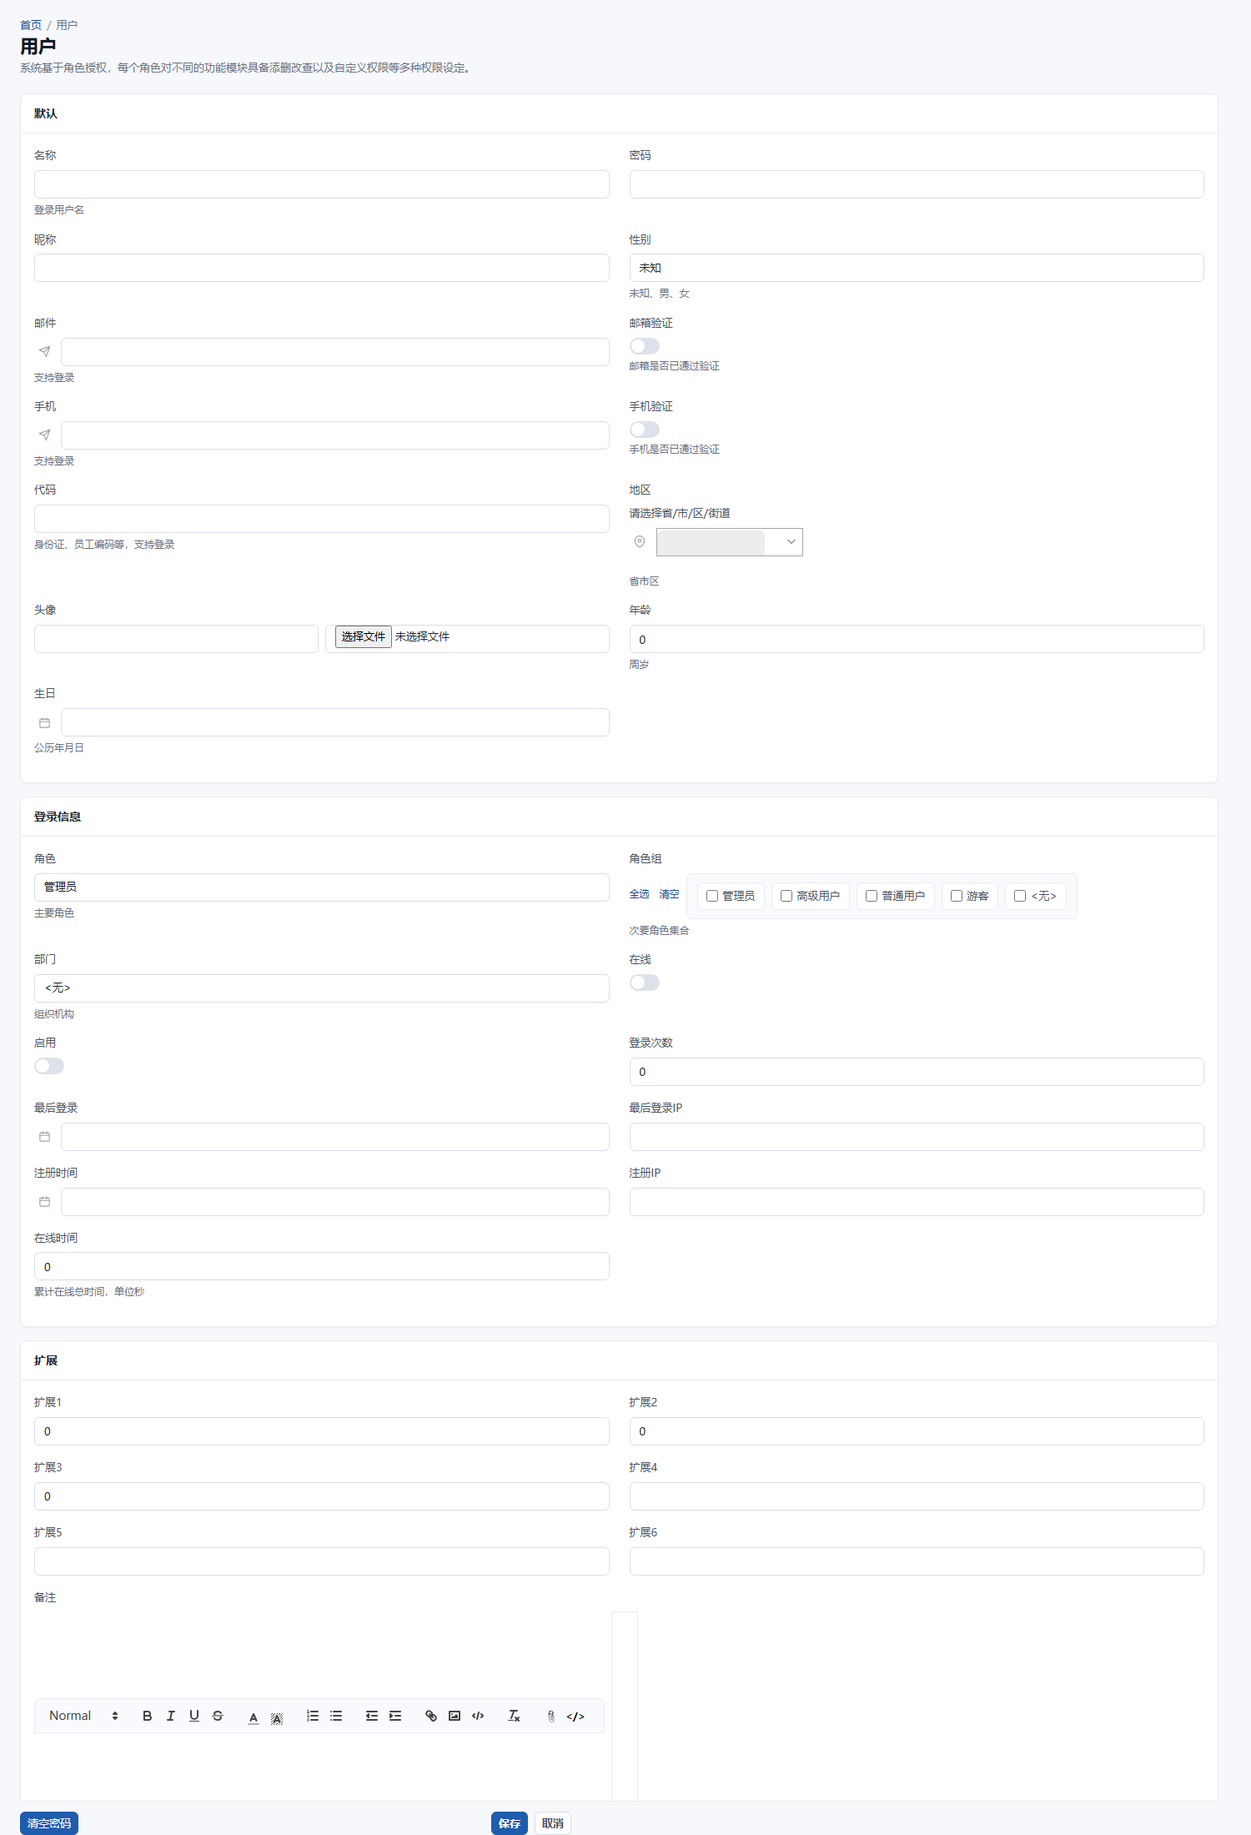
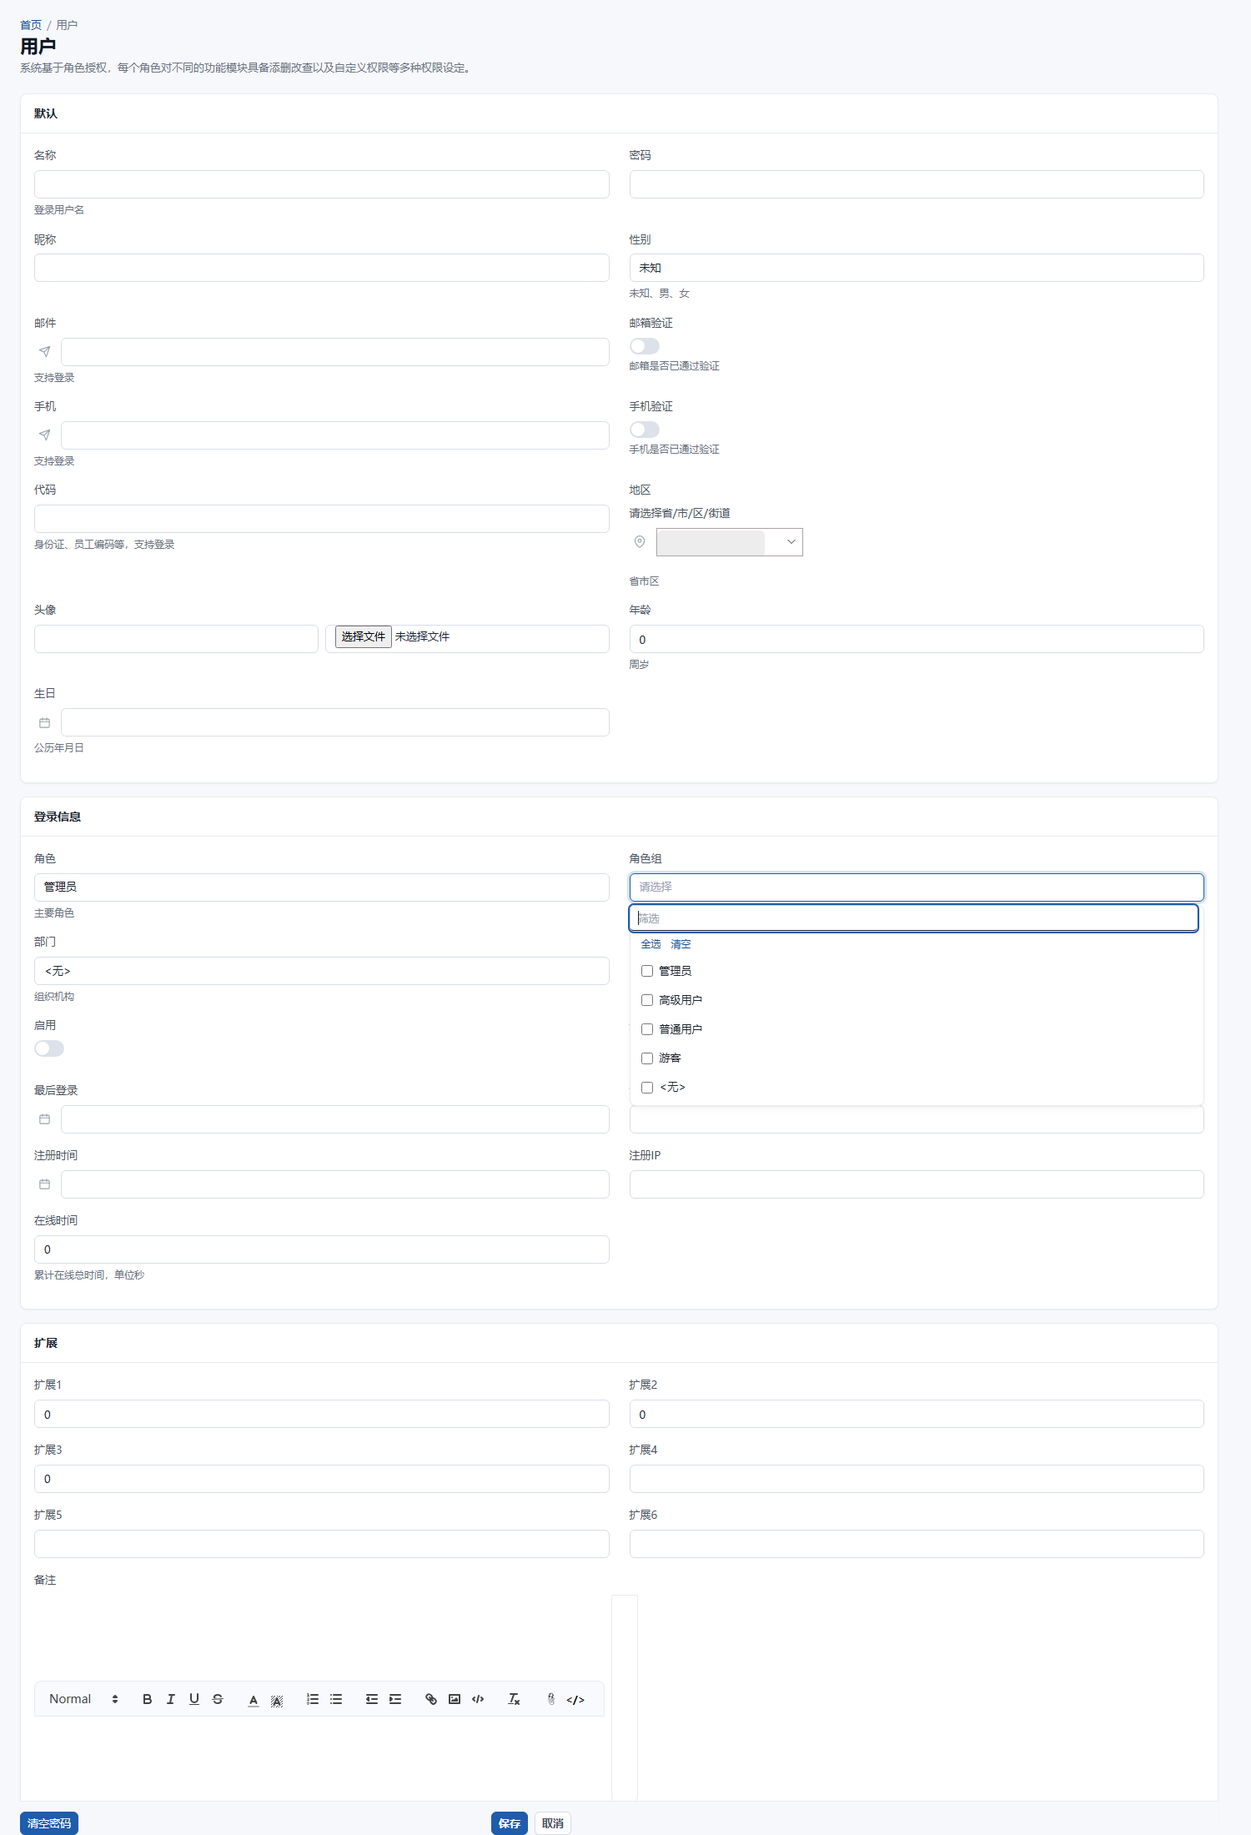
下拉组件三规则落地：单选筛选 / 多选下拉+筛选 / 树状下拉：
1. 单选下拉（nv-selectpop）面板顶部加筛选框：输入过滤选项、Enter 选中首个
   可见项、Esc 关闭、打开时自动清空还原；方向键移动跳过被过滤项；
2. 多选改回下拉形态（新增 nv-multipop）：按钮（≤2 项显示名称，否则"已选 N 项"）
   + 面板（筛选框 + 全选/清空作用于当前筛选结果 + 勾选列表），原生 select
   保留为提交载体，勾选与 option.selected 双向同步，AutoPostback 走关闭时
   统一提交（与树下拉语义一致）；撤销上一版的常驻勾选清单（交互形态不符）；
3. 树状下拉：单选/多选数据源含 IEntityTree 时均路由 _TreeSelect（带筛选的
   树下拉，单选路由此前已就位，本轮确认保留）；
4. 勾选清单死代码清除（CSS 块 + 全选/清空委托）。

验证：verify-demo.ps1 增 DOM 级检查（组件构建/筛选框存在，JS 执行后断言）
+ 截图自动打开多选面板取证；27/27 项 PASS，两轮复跑稳定。runtime-form.png
可见角色组下拉多选打开态。

diff --git a/wwwroot/Content/nova/nova-ui.js b/wwwroot/Content/nova/nova-ui.js
@@ -372,17 +372,6 @@
         });
     }
 
-    /* 勾选清单全选/清空（事件委托，表单页多选字段用） */
-    document.addEventListener('click', function (e) {
-        var t = e.target.closest ? e.target.closest('[data-nv-checkall],[data-nv-checknone]') : null;
-        if (!t) return;
-        var id = t.getAttribute('data-nv-checkall') || t.getAttribute('data-nv-checknone');
-        var box = document.getElementById(id);
-        if (!box) return;
-        var on = t.hasAttribute('data-nv-checkall');
-        $all('input[type="checkbox"]', box).forEach(function (c) { c.checked = on; });
-    });
-
     function init() {
         /* 1) 恢复用户偏好：三者都是「先读存储再落地」，与 nova.js 一致 */
         applyTheme(get('nova-theme', 'light'));
@@ -1045,12 +1034,22 @@
         box.classList.add('is-open');
         pop.hidden = false;
         if (btn) btn.setAttribute('aria-expanded', 'true');
+        var f = box.querySelector('.nv-selectpop-filter');
+        if (f) { f.value = ''; filterSelectPop(box, ''); }
         $all('.nv-selectpop-opt', box).forEach(function (el) { el.classList.remove('is-active'); });
-        var cur = pop.querySelector('.nv-selectpop-opt.is-selected') || pop.querySelector('.nv-selectpop-opt');
+        var cur = pop.querySelector('.nv-selectpop-opt.is-selected:not(.is-hidden)') || pop.querySelector('.nv-selectpop-opt:not(.is-hidden)');
         if (cur) {
             cur.classList.add('is-active');
             try { cur.scrollIntoView({ block: 'nearest' }); } catch (e) { }
         }
+    }
+
+    /* 单选下拉筛选：按文本过滤选项；清空关键字还原 */
+    function filterSelectPop(box, keyword) {
+        var q = (keyword || '').replace(/^\s+|\s+$/g, '').toLowerCase();
+        $all('.nv-selectpop-opt', box).forEach(function (el) {
+            el.classList.toggle('is-hidden', !!q && (el.textContent || '').toLowerCase().indexOf(q) < 0);
+        });
     }
 
     function chooseSelectPop(box, item) {
@@ -1063,7 +1062,7 @@
 
     function spMove(box, dir) {
         var opts = $all('.nv-selectpop-opt', box).filter(function (o) {
-            return !o.classList.contains('is-disabled');
+            return !o.classList.contains('is-disabled') && !o.classList.contains('is-hidden');
         });
         if (!opts.length) return;
         var idx = -1;
@@ -1100,6 +1099,14 @@
         pop.className = 'nv-selectpop-pop';
         pop.setAttribute('role', 'listbox');
         pop.hidden = true;
+        // 筛选框：单选下拉支持按关键字过滤选项（与树下拉/多选下拉交互一致）
+        var filter = document.createElement('input');
+        filter.type = 'search';
+        filter.className = 'nv-input nv-selectpop-filter';
+        filter.placeholder = '筛选';
+        filter.setAttribute('aria-label', '筛选');
+        filter.setAttribute('autocomplete', 'off');
+        pop.appendChild(filter);
         for (var i = 0; i < sel.options.length; i++) {
             var o = sel.options[i];
             var it = document.createElement('div');
@@ -1122,6 +1129,10 @@
         $all('select.nv-select, select.form-control, select.form-select').forEach(buildSelectPop);
         if (spBound) return;
         spBound = true;
+        document.addEventListener('input', function (e) {
+            if (!e.target.classList || !e.target.classList.contains('nv-selectpop-filter')) return;
+            filterSelectPop(e.target.closest('[data-nv-selectpop]'), e.target.value);
+        });
         document.addEventListener('click', function (e) {
             var box = e.target.closest ? e.target.closest('[data-nv-selectpop]') : null;
             if (!box) {
@@ -1143,6 +1154,17 @@
         document.addEventListener('keydown', function (e) {
             var box = e.target.closest ? e.target.closest('[data-nv-selectpop]') : null;
             if (!box) return;
+            if (e.target.classList && e.target.classList.contains('nv-selectpop-filter')) {
+                if (e.key === 'Escape') { closeSelectPop(box); return; }
+                if (e.key === 'Enter') {
+                    e.preventDefault();
+                    var first = $all('.nv-selectpop-opt', box).filter(function (o) {
+                        return !o.classList.contains('is-disabled') && !o.classList.contains('is-hidden');
+                    })[0];
+                    if (first) { chooseSelectPop(box, first); closeSelectPop(box); }
+                }
+                return;
+            }
             if (e.key === 'Escape') { closeSelectPop(box); return; }
             if (e.key !== 'ArrowDown' && e.key !== 'ArrowUp' && e.key !== 'Enter' && e.key !== ' ') return;
             if (!(e.target.closest && e.target.closest('.nv-selectpop-btn'))) return;
@@ -1191,6 +1213,203 @@
         });
     }
 
+    /* ---------------- 原生多选下拉增强（nv-multipop） ----------------
+       扁平数据源的多选：下拉面板 = 筛选框 + 全选/清空 + 勾选列表（树下拉仍走 nv-treeselect）。
+       原生 select[multiple] 保留在组件内（裁剪隐藏）负责表单提交；勾选状态与 option.selected 双向同步。 */
+    var mpBound = false;
+
+    function paintMultiPop(box) {
+        var sel = box.querySelector('select');
+        var label = box.querySelector('.nv-multipop-value');
+        if (!sel || !label) return;
+        var placeholder = box.getAttribute('data-placeholder') || '请选择';
+        var picked = [];
+        for (var i = 0; i < sel.options.length; i++) {
+            var op = sel.options[i];
+            if (op.selected && op.value !== '') picked.push(op);
+        }
+        $all('.nv-multipop-item', box).forEach(function (item) {
+            var idx = parseInt(item.getAttribute('data-idx'), 10);
+            var cb = item.querySelector('.nv-multipop-check');
+            if (cb && sel.options[idx]) cb.checked = !!sel.options[idx].selected;
+            item.classList.toggle('is-on', !!(sel.options[idx] && sel.options[idx].selected));
+        });
+        if (!picked.length) {
+            label.textContent = placeholder;
+            label.classList.add('is-placeholder');
+        } else if (picked.length <= 2) {
+            var names = [];
+            for (var n = 0; n < picked.length; n++) names.push(picked[n].text);
+            label.textContent = names.join('、');
+            label.classList.remove('is-placeholder');
+        } else {
+            label.textContent = '已选 ' + picked.length + ' 项';
+            label.classList.remove('is-placeholder');
+        }
+    }
+
+    function syncMultiPop(box) {
+        paintMultiPop(box);
+        var sel = box.querySelector('select');
+        if (sel) { try { sel.dispatchEvent(new Event('change', { bubbles: true })); } catch (err) { } }
+    }
+
+    function setMultiPopAll(box, on, onlyVisible) {
+        var sel = box.querySelector('select');
+        if (!sel) return;
+        $all('.nv-multipop-item', box).forEach(function (item) {
+            if (onlyVisible && item.classList.contains('is-hidden')) return;
+            var idx = parseInt(item.getAttribute('data-idx'), 10);
+            if (sel.options[idx] && !sel.options[idx].disabled) sel.options[idx].selected = on;
+        });
+        box.setAttribute('data-nv-dirty', '1');
+        syncMultiPop(box);
+    }
+
+    function filterMultiPop(box, keyword) {
+        var q = (keyword || '').replace(/^\s+|\s+$/g, '').toLowerCase();
+        $all('.nv-multipop-item', box).forEach(function (item) {
+            item.classList.toggle('is-hidden', !!q && (item.textContent || '').toLowerCase().indexOf(q) < 0);
+        });
+    }
+
+    function closeMultiPop(box) {
+        var pop = box.querySelector('.nv-multipop-pop');
+        var btn = box.querySelector('.nv-multipop-btn');
+        if (pop) pop.hidden = true;
+        box.classList.remove('is-open');
+        if (btn) btn.setAttribute('aria-expanded', 'false');
+        if (box.getAttribute('data-nv-dirty') === '1' && box.getAttribute('data-autopost') === '1') {
+            box.removeAttribute('data-nv-dirty');
+            var form = box.closest('form');
+            if (form) form.submit();
+        }
+    }
+
+    function openMultiPop(box) {
+        $all('.nv-multipop.is-open').forEach(function (other) { if (other !== box) closeMultiPop(other); });
+        var pop = box.querySelector('.nv-multipop-pop');
+        var btn = box.querySelector('.nv-multipop-btn');
+        if (!pop) return;
+        box.classList.add('is-open');
+        pop.hidden = false;
+        if (btn) btn.setAttribute('aria-expanded', 'true');
+        var f = box.querySelector('.nv-multipop-filter');
+        if (f) { f.value = ''; filterMultiPop(box, ''); f.focus(); }
+    }
+
+    function buildMultiPop(sel) {
+        if (sel.getAttribute('data-nv-mp') === '1') return;
+        if (!sel.multiple || sel.size > 1) return;
+        if (sel.closest('[data-nv-treeselect]')) return;
+        var ctl = sel.parentElement;
+        if (!ctl) return;
+        sel.setAttribute('data-nv-mp', '1');
+        var box = document.createElement('span');
+        box.className = 'nv-multipop';
+        box.setAttribute('data-nv-multipop', '');
+        box.setAttribute('data-placeholder', sel.getAttribute('data-placeholder') || '请选择');
+        if (sel.getAttribute('data-autopost') === '1') box.setAttribute('data-autopost', '1');
+        var btn = document.createElement('button');
+        btn.type = 'button';
+        btn.className = 'nv-multipop-btn';
+        btn.setAttribute('aria-haspopup', 'listbox');
+        btn.setAttribute('aria-expanded', 'false');
+        var val = document.createElement('span');
+        val.className = 'nv-multipop-value';
+        btn.appendChild(val);
+        var ico = document.createElement('i');
+        ico.className = 'nv-ico nv-ico-sm';
+        ico.setAttribute('data-nv-ico', 'chevron_down');
+        btn.appendChild(ico);
+        var pop = document.createElement('div');
+        pop.className = 'nv-multipop-pop';
+        pop.hidden = true;
+        var filter = document.createElement('input');
+        filter.type = 'search';
+        filter.className = 'nv-input nv-multipop-filter';
+        filter.placeholder = '筛选';
+        filter.setAttribute('aria-label', '筛选');
+        filter.setAttribute('autocomplete', 'off');
+        pop.appendChild(filter);
+        var bar = document.createElement('div');
+        bar.className = 'nv-multipop-bar';
+        bar.innerHTML = '<a href="javascript:;" data-nv-mp-all>全选</a><a href="javascript:;" data-nv-mp-none>清空</a>';
+        pop.appendChild(bar);
+        var list = document.createElement('div');
+        list.className = 'nv-multipop-list';
+        list.setAttribute('role', 'listbox');
+        list.setAttribute('aria-multiselectable', 'true');
+        for (var i = 0; i < sel.options.length; i++) {
+            var o = sel.options[i];
+            var item = document.createElement('label');
+            item.className = 'nv-multipop-item';
+            item.setAttribute('data-idx', i);
+            var cb = document.createElement('input');
+            cb.type = 'checkbox';
+            cb.className = 'nv-multipop-check';
+            cb.checked = !!o.selected;
+            cb.disabled = !!o.disabled;
+            cb.setAttribute('tabindex', '-1');
+            item.appendChild(cb);
+            var tx = document.createElement('span');
+            tx.textContent = o.text;
+            item.appendChild(tx);
+            if (o.disabled) item.classList.add('is-disabled');
+            list.appendChild(item);
+        }
+        pop.appendChild(list);
+        box.appendChild(btn);
+        box.appendChild(pop);
+        ctl.insertBefore(box, sel);
+        box.appendChild(sel);
+        sel.classList.add('nv-multipop-native');
+        paintMultiPop(box);
+    }
+
+    function initMultiPop() {
+        $all('select[multiple]').forEach(buildMultiPop);
+        if (mpBound) return;
+        mpBound = true;
+        document.addEventListener('change', function (e) {
+            if (!e.target.classList || !e.target.classList.contains('nv-multipop-check')) return;
+            var item = e.target.closest('.nv-multipop-item');
+            var box = e.target.closest('[data-nv-multipop]');
+            if (!item || !box) return;
+            var sel = box.querySelector('select');
+            var idx = parseInt(item.getAttribute('data-idx'), 10);
+            if (!sel || !sel.options[idx]) return;
+            sel.options[idx].selected = e.target.checked;
+            box.setAttribute('data-nv-dirty', '1');
+            syncMultiPop(box);
+        });
+        document.addEventListener('input', function (e) {
+            if (!e.target.classList || !e.target.classList.contains('nv-multipop-filter')) return;
+            filterMultiPop(e.target.closest('[data-nv-multipop]'), e.target.value);
+        });
+        document.addEventListener('click', function (e) {
+            var box = e.target.closest ? e.target.closest('[data-nv-multipop]') : null;
+            if (!box) {
+                $all('.nv-multipop.is-open').forEach(closeMultiPop);
+                return;
+            }
+            if (e.target.closest('.nv-multipop-btn')) {
+                var sel0 = box.querySelector('select');
+                if (sel0 && sel0.disabled) return;
+                if (box.classList.contains('is-open')) closeMultiPop(box);
+                else openMultiPop(box);
+                return;
+            }
+            if (e.target.closest('[data-nv-mp-all]')) { e.preventDefault(); setMultiPopAll(box, true, true); return; }
+            if (e.target.closest('[data-nv-mp-none]')) { e.preventDefault(); setMultiPopAll(box, false, true); return; }
+        });
+        document.addEventListener('keydown', function (e) {
+            var box = e.target.closest ? e.target.closest('[data-nv-multipop]') : null;
+            if (!box || !box.classList.contains('is-open')) return;
+            if (e.key === 'Escape') closeMultiPop(box);
+        });
+    }
+
     /* ---------------------------------------------------------------- ⑤ 启动 */
     function boot() {
         initNotice();
@@ -1201,6 +1420,7 @@
         initTreeTable();
         initTreeSelect();
         initSelectPop();
+        initMultiPop();
     }
 
     migratePrefs();

diff --git a/wwwroot/Content/nova/nova-ui.css b/wwwroot/Content/nova/nova-ui.css
@@ -2481,18 +2481,44 @@ body.nv .form-actions .btn-danger:hover, body.nv .form-actions .btn-danger:focus
 .widget-menu-drop a:hover { background:var(--nv-surface-hover); color:var(--nv-primary); }
 .widget-menu-wrap { position:relative; margin-left:auto; }
 
-/* ============================================================ 多选勾选清单（2026-09-25）
-   下拉多选替代原生 select[multiple]：tag 化复选，选中项主色描边，配全选/清空。 */
-.nv-checklist-bar { display:flex; gap:12px; margin-bottom:6px; }
-.nv-checklist-bar a { font-size:var(--nv-fs-12); color:var(--nv-text-link); text-decoration:none; }
-.nv-checklist-bar a:hover { text-decoration:underline; }
-.nv-checklist {
- display:flex; flex-wrap:wrap; gap:8px; padding:10px 12px; max-height:180px; overflow:auto;
- background:var(--nv-surface-2); border:1px solid var(--nv-border); border-radius:var(--nv-r-sm); }
-.nv-check-item {
- display:inline-flex; align-items:center; gap:6px; padding:5px 10px; cursor:pointer; user-select:none;
- background:var(--nv-surface); border:1px solid var(--nv-border); border-radius:6px;
- font-size:var(--nv-fs-13); color:var(--nv-text-2); transition:border-color .15s, color .15s, background .15s; }
-.nv-check-item:hover { border-color:var(--nv-primary); color:var(--nv-primary); }
-.nv-check-item input { width:14px; height:14px; margin:0; accent-color:var(--nv-primary); cursor:pointer; }
-.nv-check-item:has(input:checked) { border-color:var(--nv-primary); background:var(--nv-primary-weak); color:var(--nv-primary); font-weight:var(--nv-fw-semi); }
+/* ============================================================ 下拉筛选与多选下拉（2026-09-25）
+   单选下拉（nv-selectpop）面板顶部筛选框；多选下拉（nv-multipop）= 筛选 + 全选/清空 + 勾选列表。 */
+.nv-selectpop-filter, .nv-multipop-filter {
+ position:sticky; top:-4px; z-index:1; height:30px; margin:-4px -4px 4px; padding:0 9px;
+ background:var(--nv-surface); border:0; border-bottom:1px solid var(--nv-border); border-radius:0; }
+.nv-selectpop-opt.is-hidden, .nv-multipop-item.is-hidden { display:none; }
+
+.nv-multipop { position:relative; display:inline-block; width:100%; }
+.nv-field-ctl > .nv-multipop { flex:1 1 auto; }
+.nv-multipop-native {
+ position:absolute !important; width:1px !important; height:1px !important; padding:0 !important;
+ margin:-1px !important; overflow:hidden !important; clip:rect(0,0,0,0) !important; border:0 !important; }
+.nv-multipop-btn {
+ display:flex; align-items:center; justify-content:space-between; gap:var(--nv-sp-2);
+ width:100%; height:var(--nv-ctrl-h); padding:0 9px 0 11px;
+ font-family:inherit; font-size:var(--nv-fs-13); color:var(--nv-text);
+ background:var(--nv-surface); border:1px solid var(--nv-border-strong); border-radius:var(--nv-r-sm);
+ cursor:pointer; transition:border-color var(--nv-dur-fast) var(--nv-ease), box-shadow var(--nv-dur-fast) var(--nv-ease); }
+.nv-multipop-btn:hover { border-color:var(--nv-gray-400, var(--nv-border-strong)); }
+.nv-multipop-btn:focus-visible { outline:none; border-color:var(--nv-border-focus, var(--nv-primary)); box-shadow:var(--nv-sh-focus); }
+.nv-multipop.is-open .nv-multipop-btn { border-color:var(--nv-border-focus, var(--nv-primary)); box-shadow:var(--nv-sh-focus); }
+.nv-multipop-value { flex:1 1 auto; overflow:hidden; text-overflow:ellipsis; white-space:nowrap; text-align:left; }
+.nv-multipop-value.is-placeholder { color:var(--nv-text-4); }
+.nv-multipop-btn .nv-ico { color:var(--nv-text-3); transition:transform var(--nv-dur-fast) var(--nv-ease); }
+.nv-multipop.is-open .nv-multipop-btn .nv-ico { transform:rotate(180deg); }
+.nv-multipop-pop {
+ position:absolute; z-index:1080; inset-inline:0; top:calc(100% + 4px);
+ background:var(--nv-surface); border:1px solid var(--nv-border); border-radius:var(--nv-r-md);
+ box-shadow:var(--nv-sh-2); padding:4px; }
+.nv-multipop-bar { display:flex; gap:12px; padding:2px 9px 6px; }
+.nv-multipop-bar a { font-size:var(--nv-fs-12); color:var(--nv-text-link); text-decoration:none; }
+.nv-multipop-bar a:hover { text-decoration:underline; }
+.nv-multipop-list { max-height:220px; overflow:auto; }
+.nv-multipop-item {
+ display:flex; align-items:center; gap:8px; padding:7px 9px;
+ font-size:var(--nv-fs-13); color:var(--nv-text); border-radius:var(--nv-r-xs);
+ cursor:pointer; user-select:none; }
+.nv-multipop-item:hover { background:var(--nv-surface-hover); }
+.nv-multipop-item.is-on { color:var(--nv-primary); font-weight:var(--nv-fw-medium); }
+.nv-multipop-item.is-disabled { color:var(--nv-text-4); cursor:not-allowed; }
+.nv-multipop-check { width:14px; height:14px; margin:0; accent-color:var(--nv-primary); cursor:pointer; flex:none; }
